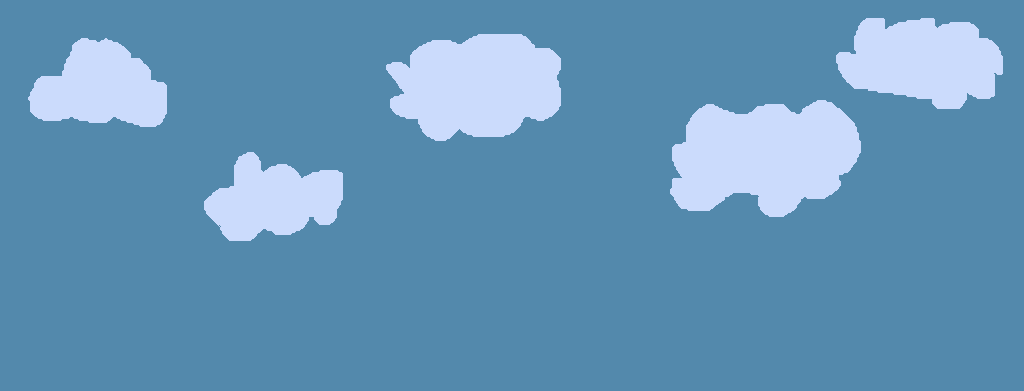
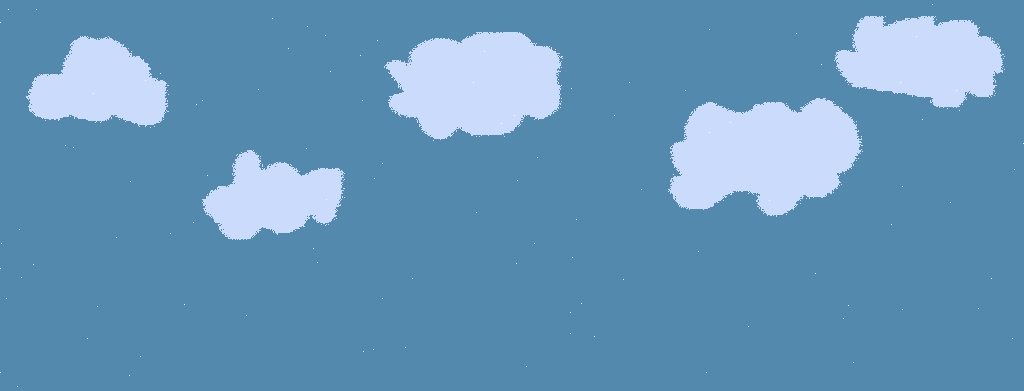
Animated Clouds

diff --git a/style.css b/style.css
@@ -19,15 +19,31 @@ body {
 #top-background {
     background-color: rgb(83, 137, 172);
     grid-row: 1;
+
+    /* background-image: url("assets/pageart/clouds-1.png"); */
+    background-repeat: repeat-x;
+    background-position: top center;
+    background-size: 1000px auto;
+
+    animation: cloudsCycle 1s infinite;
 }
 
-#clouds {
+@keyframes cloudsCycle {
+    0%    { background-image: url("assets/pageart/clouds-1.png"); }
+    20%   { background-image: url("assets/pageart/clouds-2.png"); }
+    40%   { background-image: url("assets/pageart/clouds-3.png"); }
+    60%   { background-image: url("assets/pageart/clouds-4.png"); }
+    80%   { background-image: url("assets/pageart/clouds-5.png"); }
+    100%  { background-image: url("assets/pageart/clouds-1.png"); }
+}
+
+/* #clouds {
     position: absolute;
-    width: 100%;
-    height: auto;
+    width: 600px;
+    height: 200px;
     top: 0;
     left: 0;
-}
+} */
 
 #bottom-background {
     background-color: rgb(16, 128, 16);
@@ -38,10 +54,10 @@ body {
     position:absolute;
     top: 25%;
     left: 50%;
-    transform: translate(-50%, -20%);
+    transform: translate(-50%, 0%);
 
     width: 280px;
-    height: 240px;
+    height: 60%;
 
     background-color: rgb(83, 137, 172);
     padding: 20px 15px;

diff --git a/index.html b/index.html
@@ -8,9 +8,7 @@
         <link href="https://fonts.googleapis.com/css2?family=Courier+Prime:ital,wght@0,400;0,700;1,400;1,700&family=Rubik:ital,wght@0,300..900;1,300..900&display=swap" rel="stylesheet">
     <body>
         <div id="page">
-            <div id="top-background">
-                <img src="assets/pageart/clouds-1.png" id="clouds">
-            </div>
+            <div id="top-background"></div>
             <div id="bottom-background"></div>
 
             <div id = "main-content">
